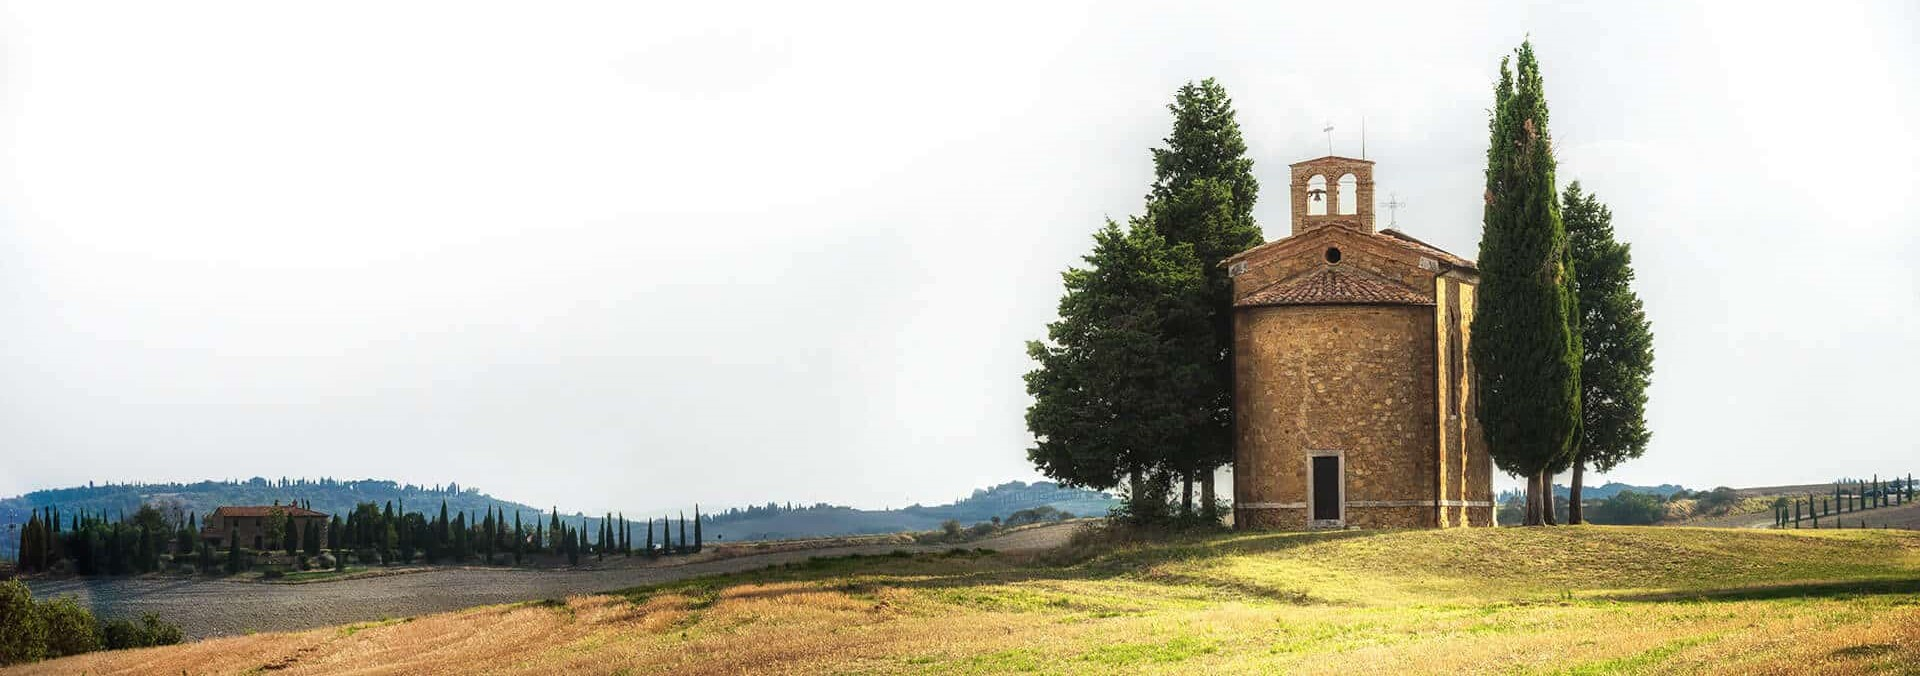
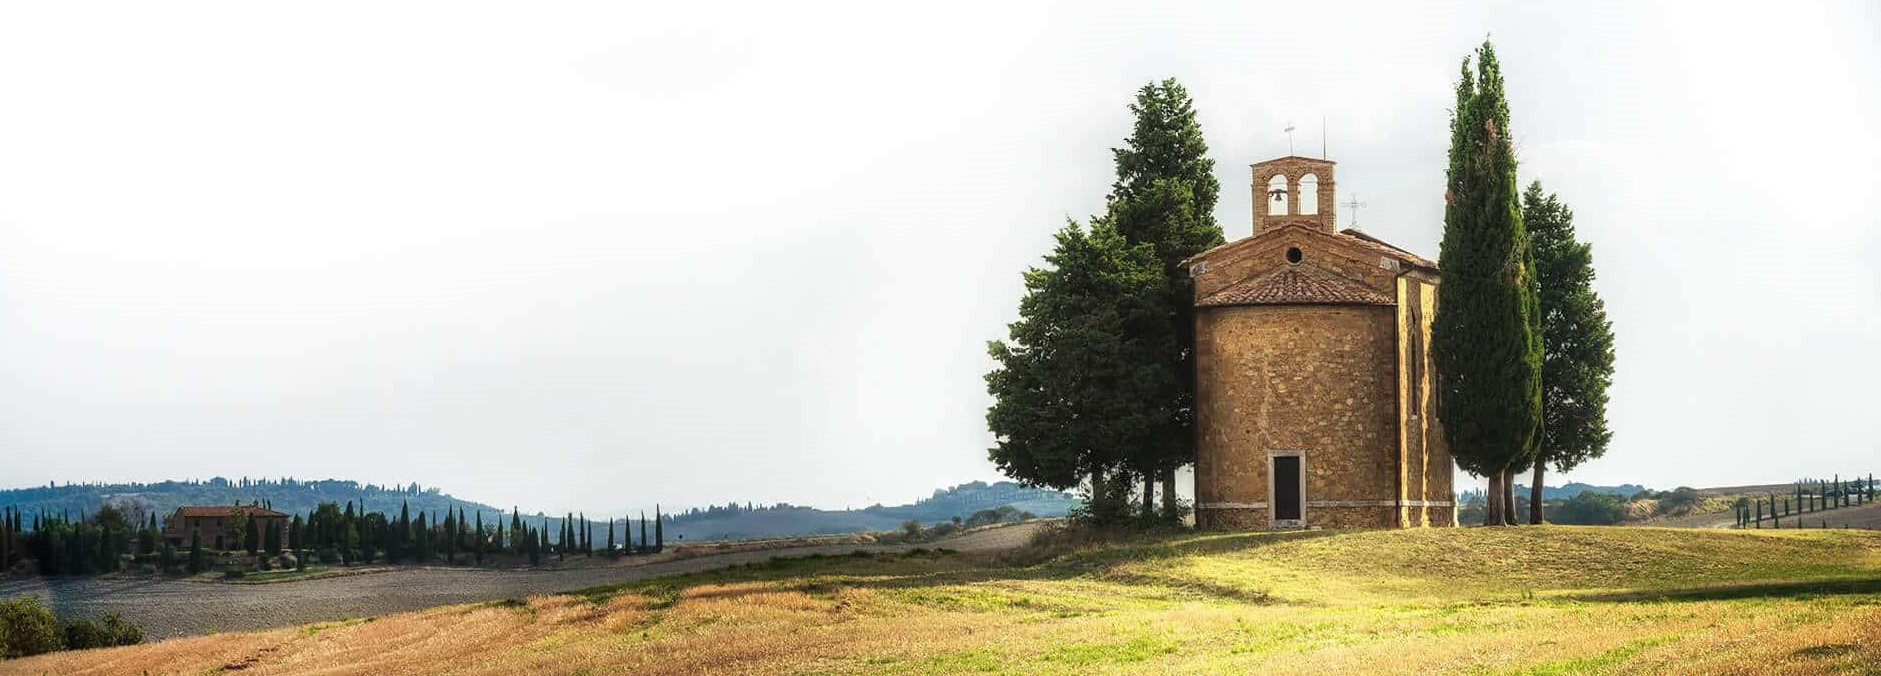
fixing cover italybg

Changed region(s): [[0.0, 0.0621, 0.9867, 1.0]]

diff --git a/index.html b/index.html
@@ -258,7 +258,7 @@ https://templatemo.com/tm-548-training-studio
             </section>
         </div>
     </div>
-    -- 
+    
     <!-- ***** Footer Start ***** -->
     <footer>
         <div class="container-footer">

diff --git a/assets/css/templatemo-training-studio.css b/assets/css/templatemo-training-studio.css
@@ -1517,7 +1517,9 @@ footer{
 
 
 .img-bg-italy {
+  height: 100%;
   background-image: url("../images/italybg.jpg");
+  background-size: cover;
 }
 
 .lapresidenza-title {
